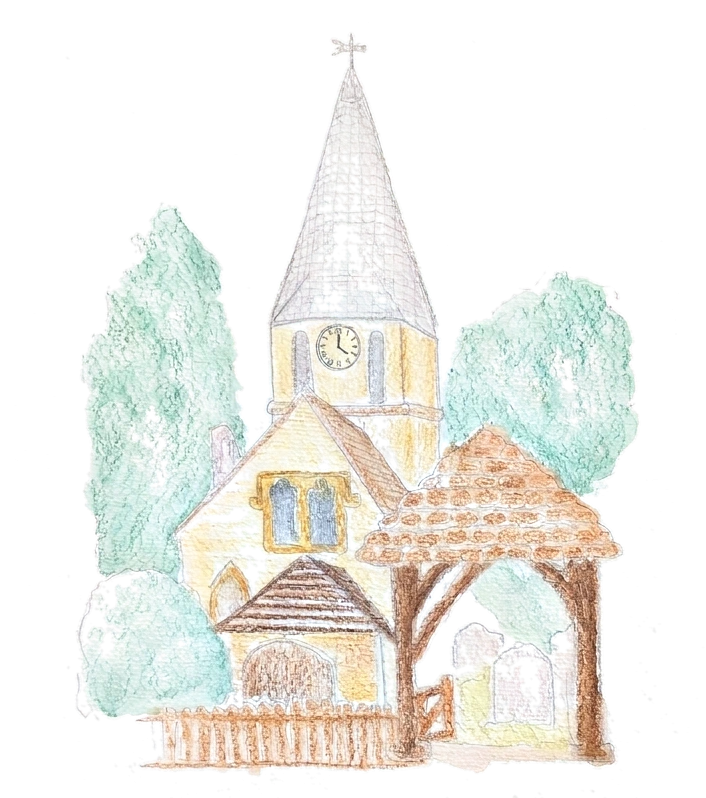
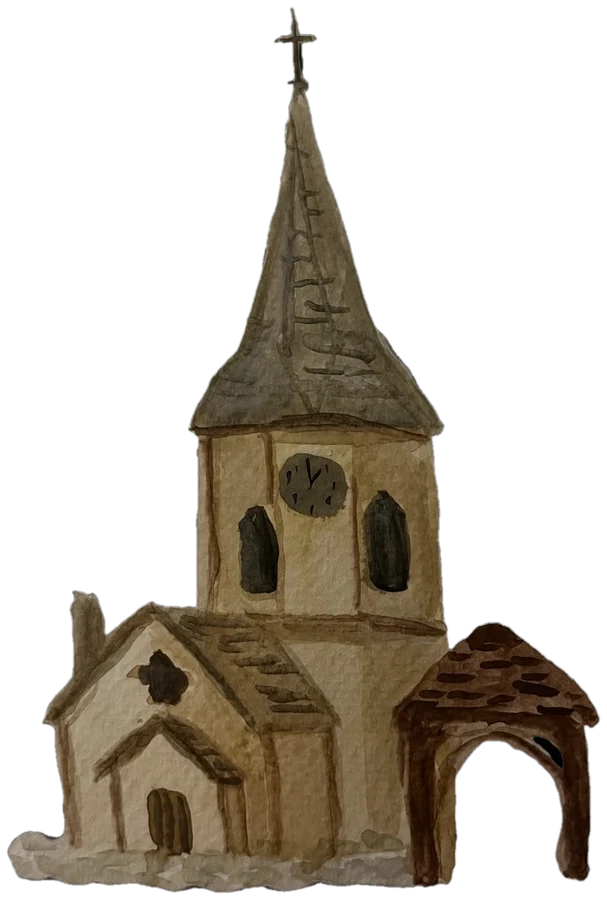
feat(frontend): new watercolour church drawing in the hero (#21)
<!-- claude-projects-attribution: {"github_login":"edgorman"} -->
_Requested by **Ed** · [project
thread](https://claude.ai/code/project/chan_01Wd21ij26ovzR79vydims9E?thread=cmsg_01Wd21ij26ovzR79vydims9EJvYp8TBzZtU9VaeUtkmAHw)_

## Summary
- Replaces the hero church drawing with Ed's new watercolour version.
The black background was removed so it sits on the paper, and the image
is cropped to the drawing.
- The new drawing is taller, so the hero now sizes it by height (up to
25rem, at most 45vh) instead of width. The rest of the layout is
unchanged.

## Testing
- Frontend tests, lint and build pass locally.
- Checked the hero at phone width in a local render.

---
_Generated by [Claude
Code](https://claude.ai/code/session_01P5Pa63uX94MTdA2yfdJgqt)_

---------

diff --git a/services/frontend/src/App.css b/services/frontend/src/App.css
@@ -26,7 +26,7 @@ body {
 }
 .page > section { display: flex; flex-direction: column; justify-content: center; padding-block: 3rem; }
 .end { display: flex; flex-direction: column; justify-content: center; }
-.church { width: min(22rem, 80vw); height: auto; }
+.church { height: min(25rem, 45vh); width: auto; max-width: 80vw; }
 .names { margin: 1.5rem 0 .5rem; font-weight: 400; font-size: clamp(2.25rem, 8vw, 3.5rem); letter-spacing: .06em; color: var(--accent); }
 .hero p { margin: .25rem 0; letter-spacing: .12em; font-size: clamp(1.1rem, 3.5vw, 1.5rem); }
 .datelink, .churchlink { color: inherit; text-decoration: underline wavy rgba(138, 106, 79, .5); text-decoration-thickness: 1px; text-underline-offset: 5px; }
